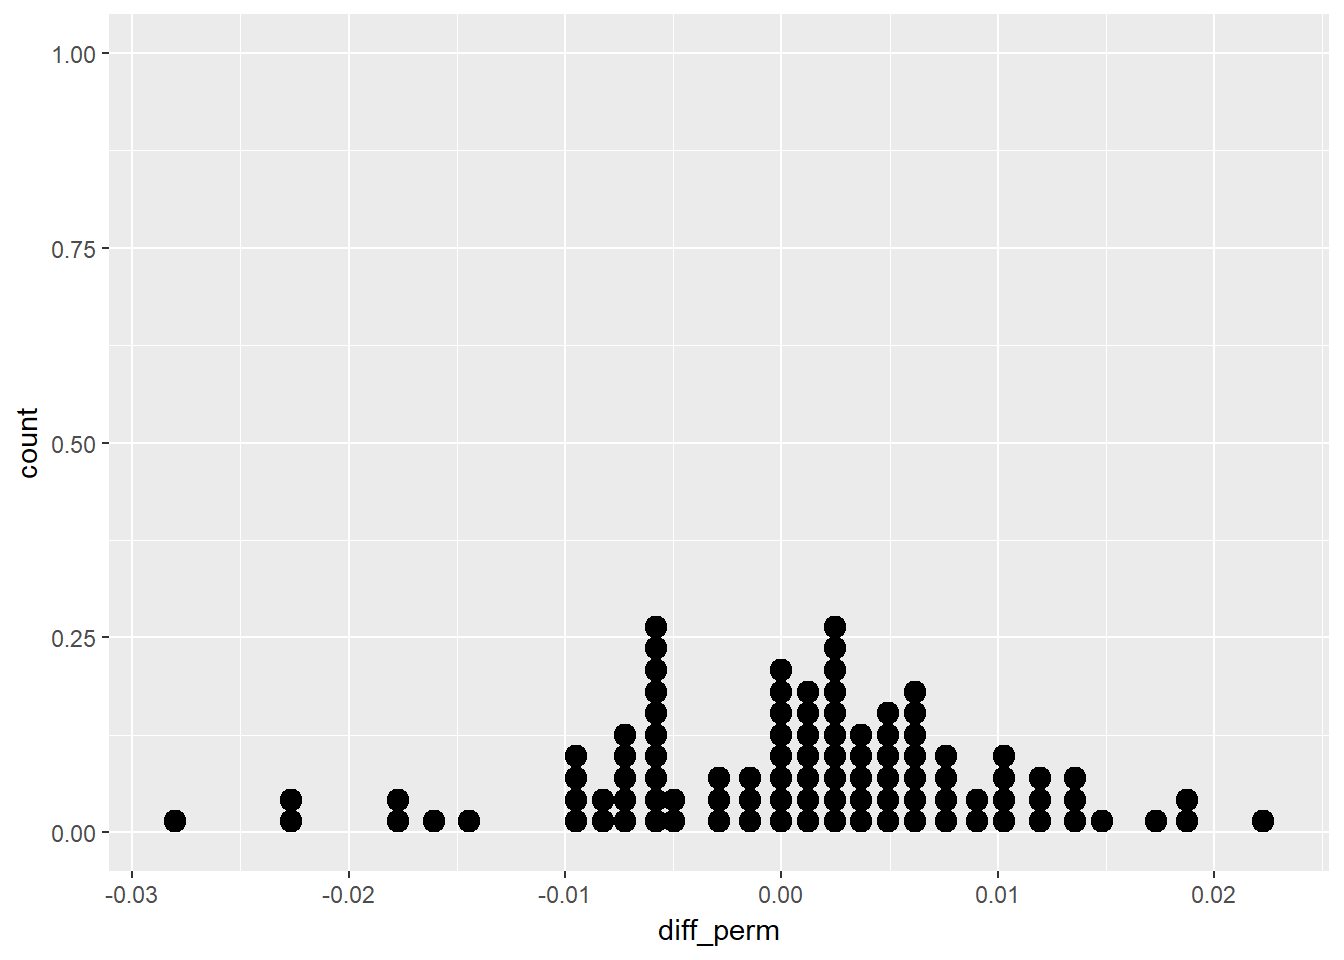
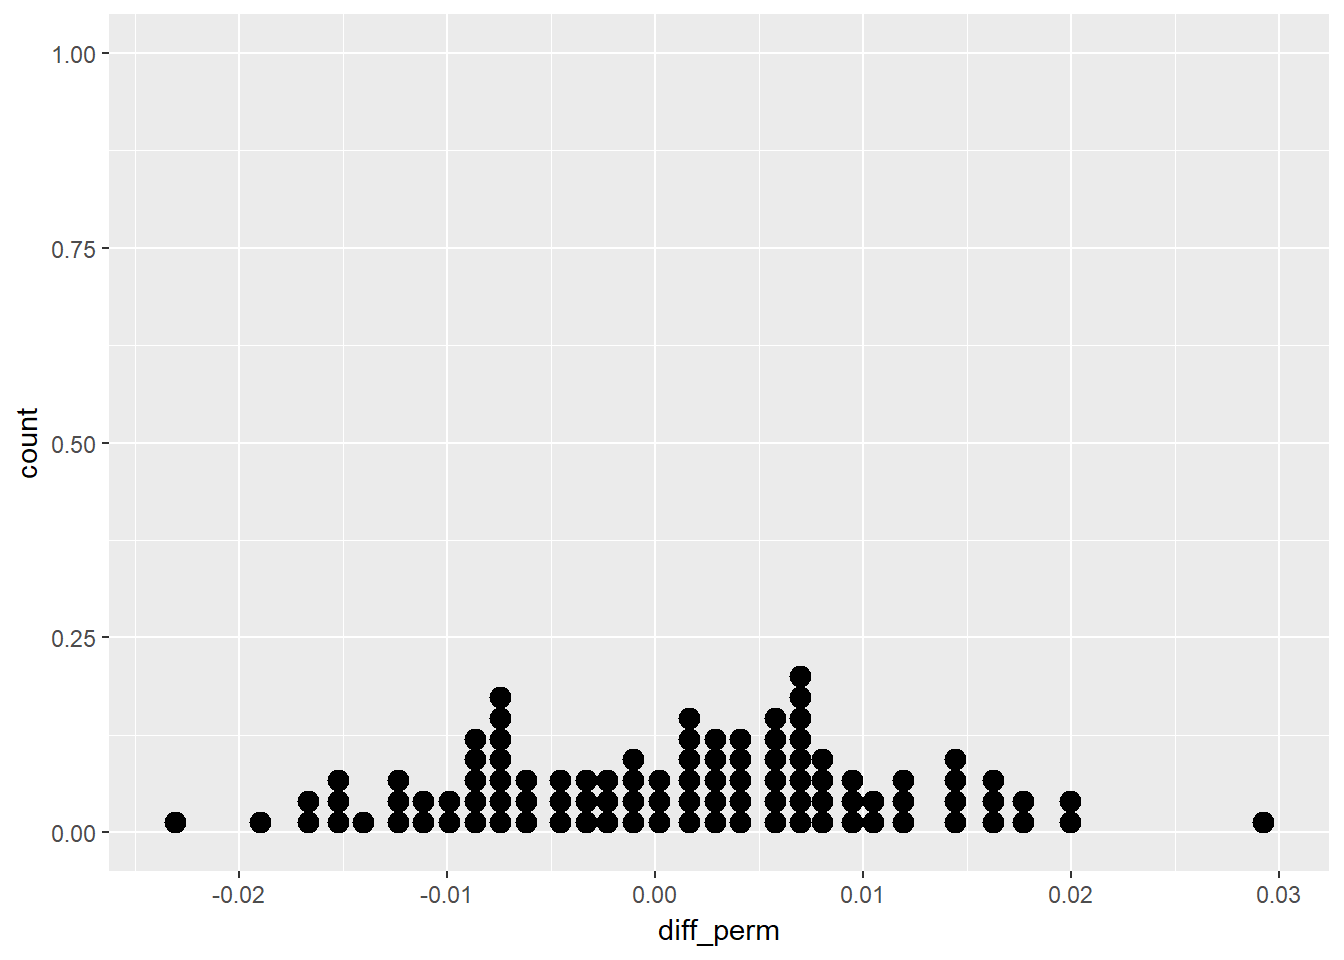
Created dimensional modelling section, introduced Kimball DM process

diff --git a/docs/dimensional-modelling.html b/docs/dimensional-modelling.html
@@ -32,8 +32,8 @@
   <meta name="apple-mobile-web-app-status-bar-style" content="black">
   
   
-
-<link rel="next" href="importing-data-part-1.html">
+<link rel="prev" href="references.html">
+<link rel="next" href="references-1.html">
 
 <script src="libs/jquery-2.2.3/jquery.min.js"></script>
 <link href="libs/gitbook-2.6.7/css/style.css" rel="stylesheet" />
@@ -151,25 +151,60 @@ code > span.in { color: #60a0b0; font-weight: bold; font-style: italic; } /* Inf
           <div class="page-inner">
 
             <section class="normal" id="section-">
-<div id="header">
-<h1 class="title">Study notes</h1>
-<h4 class="author"><em>James Solomon-Rounce</em></h4>
-<h4 class="date"><em>Last updated:2017-06-21</em></h4>
+<div id="dimensional-modelling" class="section level1">
+<h1><span class="header-section-number">3</span> Dimensional Modelling</h1>
+<hr />
+<div id="kimball-approach" class="section level2">
+<h2><span class="header-section-number">3.1</span> Kimball Approach</h2>
+<p>Before work begins of the data modelling, it is neccessary to understand the needs of the business and the underlying data <span class="citation">(Kimball and Ross <a href="#ref-Kimball2013">2013</a>, pg 37)</span>. The business needs arise out of meetings with manangers, decision makers and other representatives of the business. Kimball also recommends meetings with <em>‘source system experts and doing high-level data profiling to assess data feasibilities’</em> <span class="citation">(Kimball and Ross <a href="#ref-Kimball2013">2013</a>, pg 38)</span>. Whilst the data modeller is ‘in charge’ the actual model should unfold via a series of interactive workshops with those business representatives. Data governance reps should also be involved to obtain buy-in.</p>
 </div>
-<div id="preface" class="section level1 unnumbered">
-<h1>Preface</h1>
-<p>The following notes were taken by me for educational, non-commercial, purposes. If you find the information useful, buy the material/take the course.</p>
-<p>Thank you to the original content providers. Additional ramblings are my own.</p>
-<p><img src="images/standing.jpg" width="100%" /></p>
-
+<div id="four-step-dimensional-design-process" class="section level2">
+<h2><span class="header-section-number">3.2</span> Four-Step Dimensional Design Process</h2>
+<p>Kimball outlines four key decisions that are to be made during the design of a dimensional model include:</p>
+<ol style="list-style-type: decimal">
+<li><p>Select the business process - the operational activities done by the business, these activities create the facts</p></li>
+<li><p>Declare the grain - what a single row represents. The <em>atomic grain</em> is the lowest data captured by the business, which is the ideal and can be aggregared (rolled-up) to other levels. Different grains must not be mixed in the same fact table</p></li>
+<li><p>Identify the dimensions - the descriptive attributes about the facts, to be used for analysis. Provide the “who, what, where, when, why, and how” (6W) context</p></li>
+<li><p>Identify the facts - the measurements (how many) from the business process, it should relate to a physical observable event, rather than reporting needs</p></li>
+</ol>
+<p>Typicall the output of this process is a star schema, with a fact table at the centre supported by the associated dimension tables, with primary/forenigh key relationships. This is often then structured into a online analytical processing (OLAP) cube, which contains the facts and dimensions appropriate to the analysis, but allows for more detailed analytical capabilities than SQL. Sometimes aggregated fact tables are built to speed up query performance, as are aggregated OLAP cubes which are typically designed for users.</p>
+<p>A key advantage of the dimensional model approach is that new dimensions can be added to an existing fact table by adding a new foreign key column.</p>
+</div>
+<div id="graphical-representations" class="section level2">
+<h2><span class="header-section-number">3.3</span> Graphical Representations</h2>
+<div class="figure"><span id="fig:StarOLAP"></span>
+<img src="images/StarAndOLAP.png" alt="Star schema versus OLAP cube [@Kimball2013, pg 9]"  />
+<p class="caption">
+Figure 3.1: Star schema versus OLAP cube <span class="citation">(Kimball and Ross <a href="#ref-Kimball2013">2013</a>, pg 9)</span>
+</p>
+</div>
+<div class="figure"><span id="fig:starexample"></span>
+<img src="images/FactWithDims.png" alt="Star schema example [@Kimball2013, pg 16]"  />
+<p class="caption">
+Figure 3.2: Star schema example <span class="citation">(Kimball and Ross <a href="#ref-Kimball2013">2013</a>, pg 16)</span>
+</p>
+</div>
+<div class="figure"><span id="fig:starreport"></span>
+<img src="images/FactWithDimsReport.png" alt="Star schema reporting [@Kimball2013, pg 17]"  />
+<p class="caption">
+Figure 3.3: Star schema reporting <span class="citation">(Kimball and Ross <a href="#ref-Kimball2013">2013</a>, pg 17)</span>
+</p>
+</div>
+</div>
+</div>
+<h3>References</h3>
+<div id="refs" class="references">
+<div id="ref-Kimball2013">
+<p>Kimball, R., and M. Ross. 2013. <em>Data Warehouse Toolkit, the: The Definitive Guide to Dimensional Modeling</em>. 3rd Edition. Indianapolis: John Wiley &amp; Sons, Inc.</p>
+</div>
 </div>
             </section>
 
           </div>
         </div>
       </div>
-
-<a href="importing-data-part-1.html" class="navigation navigation-next navigation-unique" aria-label="Next page""><i class="fa fa-angle-right"></i></a>
+<a href="references.html" class="navigation navigation-prev " aria-label="Previous page"><i class="fa fa-angle-left"></i></a>
+<a href="references-1.html" class="navigation navigation-next " aria-label="Next page""><i class="fa fa-angle-right"></i></a>
 
 <script src="libs/gitbook-2.6.7/js/app.min.js"></script>
 <script src="libs/gitbook-2.6.7/js/lunr.js"></script>

diff --git a/docs/foundations-of-inference.html b/docs/foundations-of-inference.html
@@ -125,6 +125,12 @@ code > span.in { color: #60a0b0; font-weight: bold; font-style: italic; } /* Inf
 <li class="chapter" data-level="2.7" data-path="foundations-of-inference.html"><a href="foundations-of-inference.html#bootstrapping"><i class="fa fa-check"></i><b>2.7</b> Bootstrapping</a></li>
 </ul></li>
 <li class="chapter" data-level="" data-path="references.html"><a href="references.html"><i class="fa fa-check"></i>References</a></li>
+<li class="chapter" data-level="3" data-path="dimensional-modelling.html"><a href="dimensional-modelling.html"><i class="fa fa-check"></i><b>3</b> Dimensional Modelling</a><ul>
+<li class="chapter" data-level="3.1" data-path="dimensional-modelling.html"><a href="dimensional-modelling.html#kimball-approach"><i class="fa fa-check"></i><b>3.1</b> Kimball Approach</a></li>
+<li class="chapter" data-level="3.2" data-path="dimensional-modelling.html"><a href="dimensional-modelling.html#four-step-dimensional-design-process"><i class="fa fa-check"></i><b>3.2</b> Four-Step Dimensional Design Process</a></li>
+<li class="chapter" data-level="3.3" data-path="dimensional-modelling.html"><a href="dimensional-modelling.html#graphical-representations"><i class="fa fa-check"></i><b>3.3</b> Graphical Representations</a></li>
+</ul></li>
+<li class="chapter" data-level="" data-path="references-1.html"><a href="references-1.html"><i class="fa fa-check"></i>References</a></li>
 <li class="divider"></li>
 <li><a href="https://github.com/rstudio/bookdown" target="blank">Published with bookdown</a></li>
 
@@ -235,9 +241,9 @@ homes %&gt;%
 <span class="st">  </span><span class="kw">summarize</span>(<span class="dt">diff_perm =</span> <span class="kw">diff</span>(prop_own),
             <span class="dt">diff_orig =</span> <span class="kw">diff</span>(prop_own_perm))</code></pre></div>
 <pre><code>## # A tibble: 1 × 2
-##      diff_perm   diff_orig
-##          &lt;dbl&gt;       &lt;dbl&gt;
-## 1 -0.007828723 -0.01112378</code></pre>
+##      diff_perm    diff_orig
+##          &lt;dbl&gt;        &lt;dbl&gt;
+## 1 -0.007828723 -0.008652487</code></pre>
 <p>It is easier to see what is going on by breaking the results down iteratively. Our selected and filtered homes dataset looks like.</p>
 <div class="sourceCode"><pre class="sourceCode r"><code class="sourceCode r"><span class="kw">head</span>(homes)</code></pre></div>
 <pre><code>## # A tibble: 6 × 2
@@ -262,7 +268,7 @@ homes %&gt;%
 ## 1   male    Rent          Own
 ## 2   male    Rent          Own
 ## 3 female     Own          Own
-## 4   male     Own         Rent
+## 4   male     Own          Own
 ## 5   male     Own          Own
 ## 6   male     Own          Own</code></pre>
 <div class="sourceCode"><pre class="sourceCode r"><code class="sourceCode r"><span class="kw">summary</span>(homes2)</code></pre></div>
@@ -278,17 +284,17 @@ homes3</code></pre></div>
 <pre><code>## # A tibble: 2 × 3
 ##   Gender prop_own_perm  prop_own
 ##   &lt;fctr&gt;         &lt;dbl&gt;     &lt;dbl&gt;
-## 1 female     0.6695297 0.6654397
-## 2   male     0.6534633 0.6576109</code></pre>
+## 1 female     0.6633947 0.6654397
+## 2   male     0.6596848 0.6576109</code></pre>
 <p>FFinally we calculate the differences in ownership - note that the difference for the permuted value here may be different from the full code above, as it a new random permutation and we have used the set.seed() function which would create an identical permutation.</p>
 <div class="sourceCode"><pre class="sourceCode r"><code class="sourceCode r">homes4 &lt;-<span class="st"> </span>homes3 %&gt;%<span class="st"> </span>
 <span class="st">  </span><span class="kw">summarize</span>(<span class="dt">diff_perm =</span> <span class="kw">diff</span>(prop_own),
   <span class="dt">diff_orig =</span> <span class="kw">diff</span>(prop_own_perm))
 homes4</code></pre></div>
 <pre><code>## # A tibble: 1 × 2
-##      diff_perm   diff_orig
-##          &lt;dbl&gt;       &lt;dbl&gt;
-## 1 -0.007828723 -0.01606636</code></pre>
+##      diff_perm    diff_orig
+##          &lt;dbl&gt;        &lt;dbl&gt;
+## 1 -0.007828723 -0.003709905</code></pre>
 </div>
 <div id="density-plots" class="section level2">
 <h2><span class="header-section-number">2.3</span> Density Plots</h2>

diff --git a/docs/references.html b/docs/references.html
@@ -33,7 +33,7 @@
   
   
 <link rel="prev" href="foundations-of-inference.html">
-
+<link rel="next" href="dimensional-modelling.html">
 
 <script src="libs/jquery-2.2.3/jquery.min.js"></script>
 <link href="libs/gitbook-2.6.7/css/style.css" rel="stylesheet" />
@@ -125,6 +125,12 @@ code > span.in { color: #60a0b0; font-weight: bold; font-style: italic; } /* Inf
 <li class="chapter" data-level="2.7" data-path="foundations-of-inference.html"><a href="foundations-of-inference.html#bootstrapping"><i class="fa fa-check"></i><b>2.7</b> Bootstrapping</a></li>
 </ul></li>
 <li class="chapter" data-level="" data-path="references.html"><a href="references.html"><i class="fa fa-check"></i>References</a></li>
+<li class="chapter" data-level="3" data-path="dimensional-modelling.html"><a href="dimensional-modelling.html"><i class="fa fa-check"></i><b>3</b> Dimensional Modelling</a><ul>
+<li class="chapter" data-level="3.1" data-path="dimensional-modelling.html"><a href="dimensional-modelling.html#kimball-approach"><i class="fa fa-check"></i><b>3.1</b> Kimball Approach</a></li>
+<li class="chapter" data-level="3.2" data-path="dimensional-modelling.html"><a href="dimensional-modelling.html#four-step-dimensional-design-process"><i class="fa fa-check"></i><b>3.2</b> Four-Step Dimensional Design Process</a></li>
+<li class="chapter" data-level="3.3" data-path="dimensional-modelling.html"><a href="dimensional-modelling.html#graphical-representations"><i class="fa fa-check"></i><b>3.3</b> Graphical Representations</a></li>
+</ul></li>
+<li class="chapter" data-level="" data-path="references-1.html"><a href="references-1.html"><i class="fa fa-check"></i>References</a></li>
 <li class="divider"></li>
 <li><a href="https://github.com/rstudio/bookdown" target="blank">Published with bookdown</a></li>
 
@@ -148,28 +154,14 @@ code > span.in { color: #60a0b0; font-weight: bold; font-style: italic; } /* Inf
 <div id="references" class="section level1 unnumbered">
 <h1>References</h1>
 
-<div id="refs" class="references">
-<div>
-<p>Frederick, S., N. Novemsky, J. Wang, R. Dhar, and S. Nowlis. 2009. “Opportunity Cost Neglect.” <em>Journal of Consumer Research</em> 36 (4): 553–61.</p>
-</div>
-<div>
-<p>Huberty, Carl J. 1993. “Historical Origins of Statistical Testing Practices.” <em>The Journal of Experimental Education</em> 61 (4): 317–33.</p>
-</div>
-<div>
-<p>James, G., D. Witten, T. Hastie, and R. Tibshirani. 2013. <em>An Introduction to Statistical Learning</em>. 6th Printing. London: Springer. <a href="http://www-bcf.usc.edu/~gareth/ISL/" class="uri">http://www-bcf.usc.edu/~gareth/ISL/</a>.</p>
-</div>
-<div>
-<p>Rosen, B., and T. Jerdee. 1974. “Influence of Sex Role Stereotypes on Personnel Decisions.” <em>Journal of Applied Psychology</em> 59 (1): 9–14.</p>
-</div>
-</div>
 </div>
             </section>
 
           </div>
         </div>
       </div>
-<a href="foundations-of-inference.html" class="navigation navigation-prev navigation-unique" aria-label="Previous page"><i class="fa fa-angle-left"></i></a>
-
+<a href="foundations-of-inference.html" class="navigation navigation-prev " aria-label="Previous page"><i class="fa fa-angle-left"></i></a>
+<a href="dimensional-modelling.html" class="navigation navigation-next " aria-label="Next page""><i class="fa fa-angle-right"></i></a>
 
 <script src="libs/gitbook-2.6.7/js/app.min.js"></script>
 <script src="libs/gitbook-2.6.7/js/lunr.js"></script>

diff --git a/docs/references-1.html b/docs/references-1.html
@@ -32,8 +32,8 @@
   <meta name="apple-mobile-web-app-status-bar-style" content="black">
   
   
+<link rel="prev" href="dimensional-modelling.html">
 
-<link rel="next" href="importing-data-part-1.html">
 
 <script src="libs/jquery-2.2.3/jquery.min.js"></script>
 <link href="libs/gitbook-2.6.7/css/style.css" rel="stylesheet" />
@@ -151,25 +151,34 @@ code > span.in { color: #60a0b0; font-weight: bold; font-style: italic; } /* Inf
           <div class="page-inner">
 
             <section class="normal" id="section-">
-<div id="header">
-<h1 class="title">Study notes</h1>
-<h4 class="author"><em>James Solomon-Rounce</em></h4>
-<h4 class="date"><em>Last updated:2017-06-21</em></h4>
-</div>
-<div id="preface" class="section level1 unnumbered">
-<h1>Preface</h1>
-<p>The following notes were taken by me for educational, non-commercial, purposes. If you find the information useful, buy the material/take the course.</p>
-<p>Thank you to the original content providers. Additional ramblings are my own.</p>
-<p><img src="images/standing.jpg" width="100%" /></p>
+<div id="references-1" class="section level1 unnumbered">
+<h1>References</h1>
 
+<div id="refs" class="references">
+<div>
+<p>Frederick, S., N. Novemsky, J. Wang, R. Dhar, and S. Nowlis. 2009. “Opportunity Cost Neglect.” <em>Journal of Consumer Research</em> 36 (4): 553–61.</p>
+</div>
+<div>
+<p>Huberty, Carl J. 1993. “Historical Origins of Statistical Testing Practices.” <em>The Journal of Experimental Education</em> 61 (4): 317–33.</p>
+</div>
+<div>
+<p>James, G., D. Witten, T. Hastie, and R. Tibshirani. 2013. <em>An Introduction to Statistical Learning</em>. 6th Printing. London: Springer. <a href="http://www-bcf.usc.edu/~gareth/ISL/" class="uri">http://www-bcf.usc.edu/~gareth/ISL/</a>.</p>
+</div>
+<div>
+<p>Kimball, R., and M. Ross. 2013. <em>Data Warehouse Toolkit, the: The Definitive Guide to Dimensional Modeling</em>. 3rd Edition. Indianapolis: John Wiley &amp; Sons, Inc.</p>
+</div>
+<div>
+<p>Rosen, B., and T. Jerdee. 1974. “Influence of Sex Role Stereotypes on Personnel Decisions.” <em>Journal of Applied Psychology</em> 59 (1): 9–14.</p>
+</div>
+</div>
 </div>
             </section>
 
           </div>
         </div>
       </div>
+<a href="dimensional-modelling.html" class="navigation navigation-prev navigation-unique" aria-label="Previous page"><i class="fa fa-angle-left"></i></a>
 
-<a href="importing-data-part-1.html" class="navigation navigation-next navigation-unique" aria-label="Next page""><i class="fa fa-angle-right"></i></a>
 
 <script src="libs/gitbook-2.6.7/js/app.min.js"></script>
 <script src="libs/gitbook-2.6.7/js/lunr.js"></script>

diff --git a/docs/importing-data-part-1.html b/docs/importing-data-part-1.html
@@ -125,6 +125,12 @@ code > span.in { color: #60a0b0; font-weight: bold; font-style: italic; } /* Inf
 <li class="chapter" data-level="2.7" data-path="foundations-of-inference.html"><a href="foundations-of-inference.html#bootstrapping"><i class="fa fa-check"></i><b>2.7</b> Bootstrapping</a></li>
 </ul></li>
 <li class="chapter" data-level="" data-path="references.html"><a href="references.html"><i class="fa fa-check"></i>References</a></li>
+<li class="chapter" data-level="3" data-path="dimensional-modelling.html"><a href="dimensional-modelling.html"><i class="fa fa-check"></i><b>3</b> Dimensional Modelling</a><ul>
+<li class="chapter" data-level="3.1" data-path="dimensional-modelling.html"><a href="dimensional-modelling.html#kimball-approach"><i class="fa fa-check"></i><b>3.1</b> Kimball Approach</a></li>
+<li class="chapter" data-level="3.2" data-path="dimensional-modelling.html"><a href="dimensional-modelling.html#four-step-dimensional-design-process"><i class="fa fa-check"></i><b>3.2</b> Four-Step Dimensional Design Process</a></li>
+<li class="chapter" data-level="3.3" data-path="dimensional-modelling.html"><a href="dimensional-modelling.html#graphical-representations"><i class="fa fa-check"></i><b>3.3</b> Graphical Representations</a></li>
+</ul></li>
+<li class="chapter" data-level="" data-path="references-1.html"><a href="references-1.html"><i class="fa fa-check"></i>References</a></li>
 <li class="divider"></li>
 <li><a href="https://github.com/rstudio/bookdown" target="blank">Published with bookdown</a></li>
 

diff --git a/docs/DimensionalModelling.md b/docs/DimensionalModelling.md
@@ -1,0 +1,43 @@
+# Dimensional Modelling
+***
+
+## Kimball Approach
+
+Before work begins of the data modelling, it is neccessary to understand the needs of the business and the underlying data [@Kimball2013, pg 37].  The business needs arise out of meetings with manangers, decision makers and other representatives of the business.  Kimball also recommends meetings with _'source system experts and doing high-level
+data profiling to assess data feasibilities'_ [@Kimball2013, pg 38].  Whilst the data modeller is 'in charge' the actual model should unfold via a series of interactive workshops with those business representatives.  Data governance reps should also be involved to obtain buy-in.
+
+## Four-Step Dimensional Design Process
+
+Kimball outlines four key decisions that are to be made during the design of a dimensional model include:
+
+1. Select the business process - the operational activities done by the business, these activities create the facts
+
+2. Declare the grain - what a single row represents.  The _atomic grain_ is the lowest data captured by the business, which is the ideal and can be aggregared (rolled-up) to other levels.  Different grains must not be mixed in the same fact table
+
+
+3. Identify the dimensions - the descriptive attributes about the facts, to be used for analysis.  Provide the “who, what, where, when, why, and how” (6W) context 
+
+4. Identify the facts - the measurements (how many) from the business process, it should relate to a physical observable event, rather than reporting needs
+
+Typicall the output of this process is a star schema, with a fact table at the centre supported by the associated dimension tables, with primary/forenigh key relationships.  This is often then structured into a online analytical processing (OLAP) cube, which contains the facts and dimensions appropriate to the analysis, but allows for more detailed analytical capabilities than SQL.  Sometimes aggregated fact tables are built to speed up query performance, as are aggregated OLAP cubes which are typically designed for users.
+
+A key advantage of the dimensional model approach is that new dimensions can be added to an existing fact table by adding a new foreign key column. 
+
+## Graphical Representations
+
+<div class="figure">
+<img src="images/StarAndOLAP.png" alt="Star schema versus OLAP cube [@Kimball2013, pg 9]"  />
+<p class="caption">(\#fig:StarOLAP)Star schema versus OLAP cube [@Kimball2013, pg 9]</p>
+</div>
+
+<div class="figure">
+<img src="images/FactWithDims.png" alt="Star schema example [@Kimball2013, pg 16]"  />
+<p class="caption">(\#fig:starexample)Star schema example [@Kimball2013, pg 16]</p>
+</div>
+
+<div class="figure">
+<img src="images/FactWithDimsReport.png" alt="Star schema reporting [@Kimball2013, pg 17]"  />
+<p class="caption">(\#fig:starreport)Star schema reporting [@Kimball2013, pg 17]</p>
+</div>
+
+# References {-}

diff --git a/docs/Foundations-of-Inference.md b/docs/Foundations-of-Inference.md
@@ -95,9 +95,9 @@ homes %>%
 
 ```
 ## # A tibble: 1 × 2
-##      diff_perm   diff_orig
-##          <dbl>       <dbl>
-## 1 -0.007828723 -0.01112378
+##      diff_perm    diff_orig
+##          <dbl>        <dbl>
+## 1 -0.007828723 -0.008652487
 ```
 
 It is easier to see what is going on by breaking the results down iteratively.  Our selected and filtered homes dataset looks like. 
@@ -138,7 +138,7 @@ tail(homes2)
 ## 1   male    Rent          Own
 ## 2   male    Rent          Own
 ## 3 female     Own          Own
-## 4   male     Own         Rent
+## 4   male     Own          Own
 ## 5   male     Own          Own
 ## 6   male     Own          Own
 ```
@@ -168,8 +168,8 @@ homes3
 ## # A tibble: 2 × 3
 ##   Gender prop_own_perm  prop_own
 ##   <fctr>         <dbl>     <dbl>
-## 1 female     0.6695297 0.6654397
-## 2   male     0.6534633 0.6576109
+## 1 female     0.6633947 0.6654397
+## 2   male     0.6596848 0.6576109
 ```
 
 FFinally we calculate the differences in ownership - note that the difference for the permuted value here may be different from the full code above, as it a new random permutation and we have used the set.seed() function which would create an identical permutation.
@@ -184,9 +184,9 @@ homes4
 
 ```
 ## # A tibble: 1 × 2
-##      diff_perm   diff_orig
-##          <dbl>       <dbl>
-## 1 -0.007828723 -0.01606636
+##      diff_perm    diff_orig
+##          <dbl>        <dbl>
+## 1 -0.007828723 -0.003709905
 ```
 
 ##Density Plots
